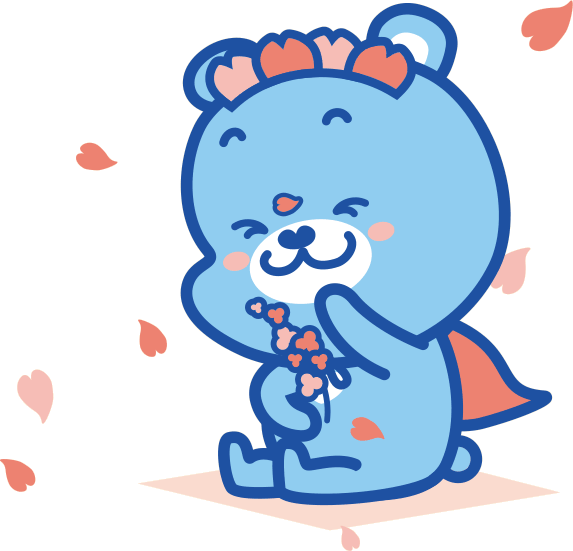
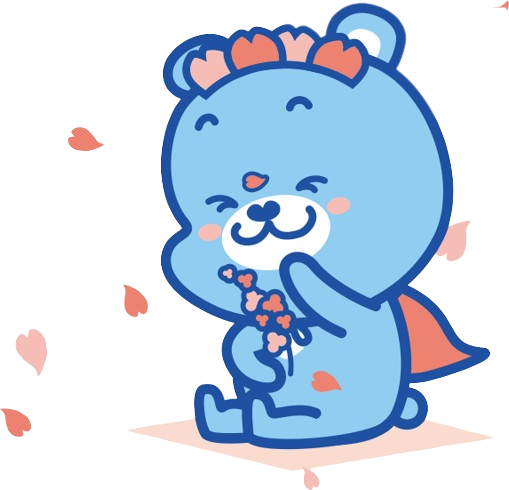
add animation
곰두리 애니메이션
곰두리 누끼 다시따기

diff --git a/index-4.css b/index-4.css
@@ -216,7 +216,8 @@
 #quiz-final-body-img img {
 	width: 100%;
 	height: 100%;
-	filter: drop-shadow(0px 0px 20px rgb(220, 220, 220));
+	filter: drop-shadow(0px 0px 10px rgb(220, 220, 220));
+	Animation:cong-animation 0.6s Alternate Infinite;
 }
 
 #quiz-final-body-text {
@@ -238,4 +239,15 @@ canvas {
 
 #buttonContainer {
 	display: none;
+}
+
+@keyframes cong-animation{
+	0%{
+		transform:scaleY(0.98);
+		filter: drop-shadow(0px 0px 10px rgb(220, 220, 220));
+	}
+	to{
+		transform:scaleY(1.0);
+		filter: drop-shadow(0px 0px 12px rgb(220, 160, 220));
+	}
 }
